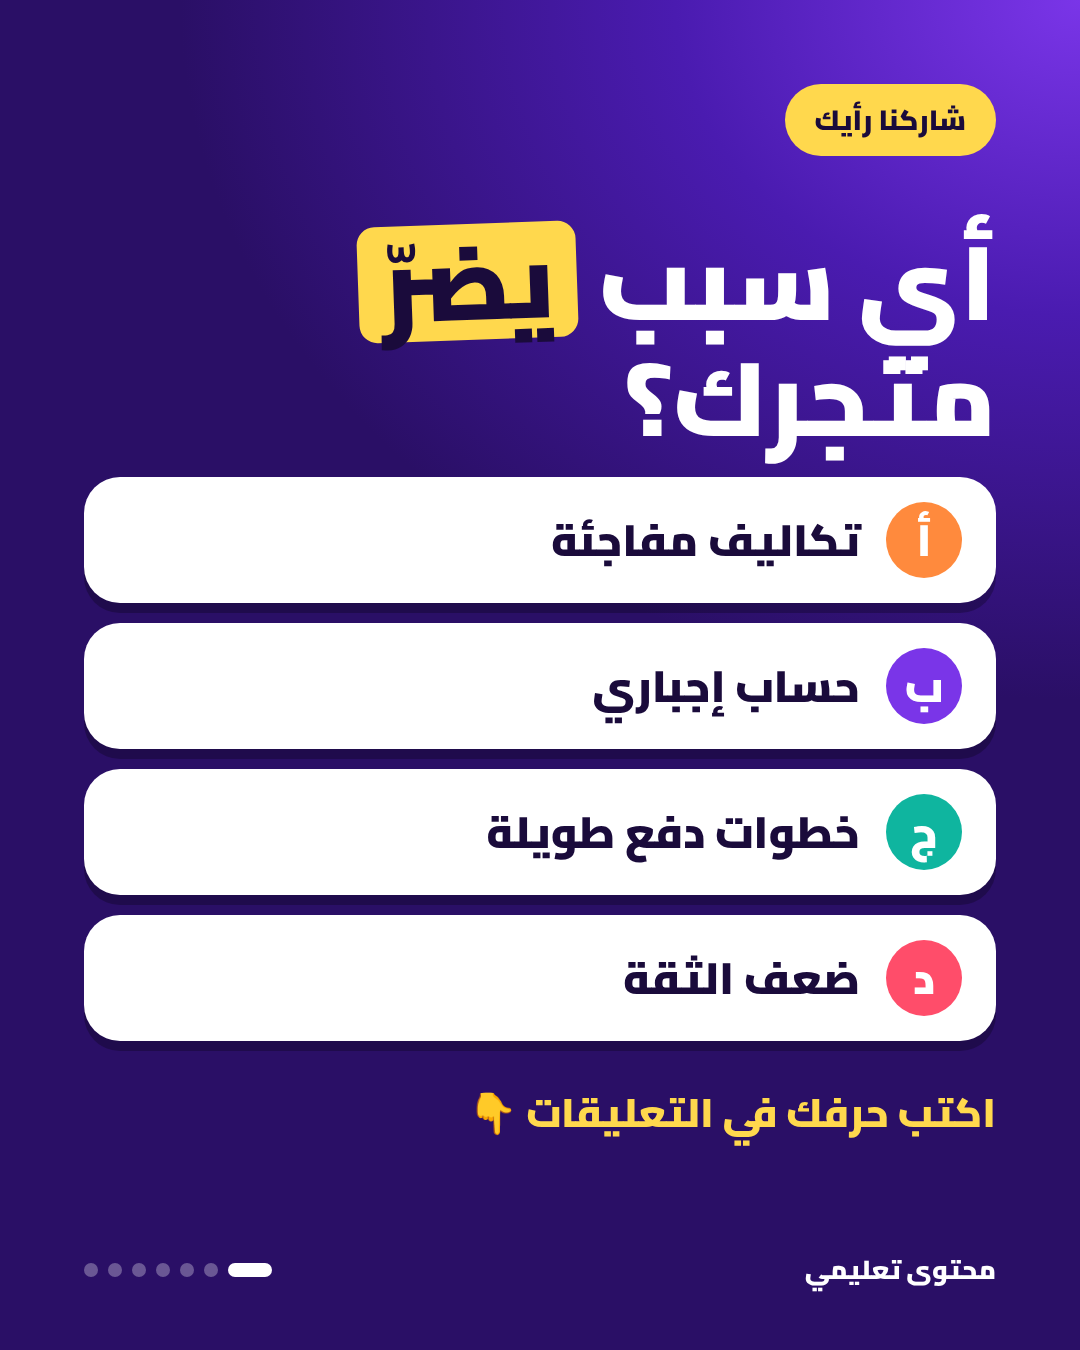
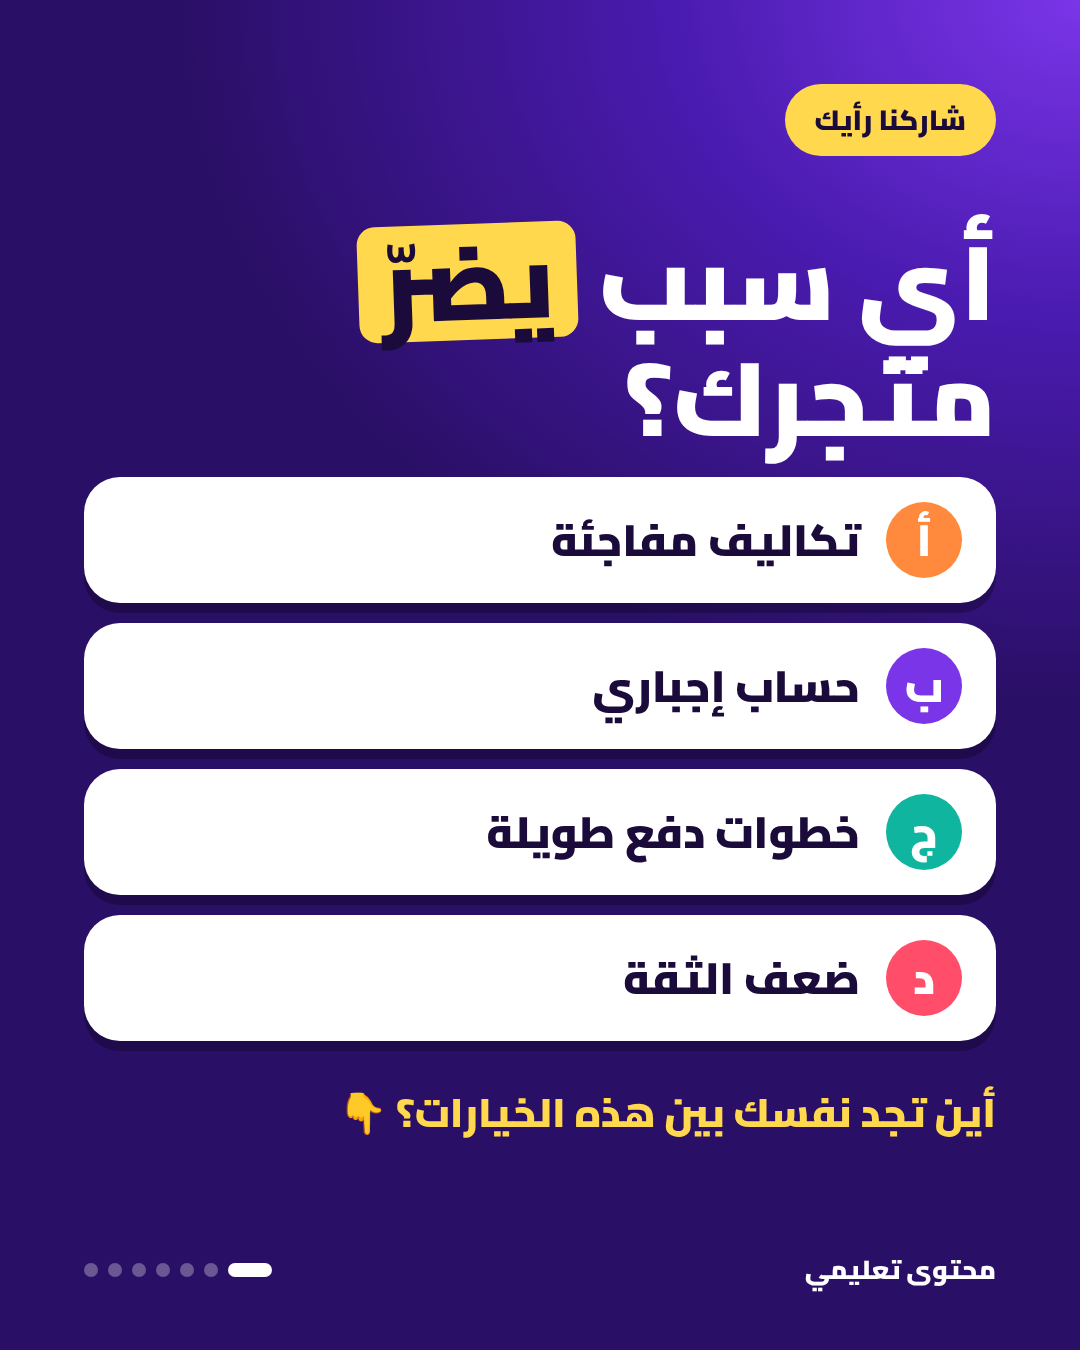
Marketing: new engagement line on final slide
Claude-Session: https://claude.ai/code/session_01YV6eaRqSPptrZU8roTwYZU

Changed region(s): [[0.3056, 0.8089, 0.9167, 0.8711]]

diff --git a/tools/story_marketing_whatsapp.py b/tools/story_marketing_whatsapp.py
@@ -27,7 +27,7 @@ def opt(l,t,c): return f'<div class="box" style="background:#fff;color:#1A0B3B;a
 S.append(f"""<section class="slide violet">{top("شاركنا رأيك")}
 <h1 style="font-size:100px;margin-top:60px">أين <span class="mark">تضيع</span><br>استفساراتك؟</h1>
 <div style="margin-top:16px">{opt("أ","بطء الرد","#FF8A3D")}{opt("ب","عدم فهم الحاجة","#7A35E8")}{opt("ج","عرض غير واضح","#0FB59F")}{opt("د","غياب المتابعة","#E0187A")}</div>
-<p style="font-size:40px;color:#FFD84D;margin-top:34px;font-weight:900;position:relative;z-index:3">اكتب حرفك في التعليقات 👇</p>{foot(7)}</section>""")
+<p style="font-size:40px;color:#FFD84D;margin-top:34px;font-weight:900;position:relative;z-index:3">أين تجد نفسك بين هذه الخيارات؟ 👇</p>{foot(7)}</section>""")
 html=f"<!doctype html><html lang='ar' dir='rtl'><head><meta charset='utf-8'><style>{css}</style></head><body>{''.join(S)}</body></html>"
 (HERE/"story_wa.html").write_text(html,encoding="utf-8")
 from playwright.sync_api import sync_playwright

diff --git a/tools/story_marketing_cart2.py b/tools/story_marketing_cart2.py
@@ -78,7 +78,7 @@ def opt(l,t,c): return f'<div class="box" style="background:#fff;color:#1A0B3B;a
 S.append(f"""<section class="slide violet">{top("شاركنا رأيك")}
 <h1 style="font-size:104px;margin-top:60px">أي سبب <span class="mark">يضرّ</span><br>متجرك؟</h1>
 <div style="margin-top:16px">{opt("أ","تكاليف مفاجئة","#FF8A3D")}{opt("ب","حساب إجباري","#7A35E8")}{opt("ج","خطوات دفع طويلة","#0FB59F")}{opt("د","ضعف الثقة","#FF4D6A")}</div>
-<p style="font-size:40px;color:#FFD84D;margin-top:34px;font-weight:900;position:relative;z-index:3">اكتب حرفك في التعليقات 👇</p>{foot(7)}</section>""")
+<p style="font-size:40px;color:#FFD84D;margin-top:34px;font-weight:900;position:relative;z-index:3">أين تجد نفسك بين هذه الخيارات؟ 👇</p>{foot(7)}</section>""")
 html=f"<!doctype html><html lang='ar' dir='rtl'><head><meta charset='utf-8'><style>{css}</style></head><body>{''.join(S)}</body></html>"
 (HERE/"story.html").write_text(html,encoding="utf-8")
 from playwright.sync_api import sync_playwright

diff --git a/tools/story_marketing_onesentence.py b/tools/story_marketing_onesentence.py
@@ -29,7 +29,7 @@ def opt(l,t,c): return f'<div class="box" style="background:#fff;color:#1A0B3B;a
 S.append(f"""<section class="slide violet">{top("شاركنا رأيك")}
 <h1 style="font-size:100px;margin-top:60px">أي عنصر <span class="mark">ينقص</span><br>جملتك؟</h1>
 <div style="margin-top:16px">{opt("أ","الفئة المحددة","#FF8A3D")}{opt("ب","النتيجة","#7A35E8")}{opt("ج","الطريقة","#0FB59F")}{opt("د","الوضوح والبساطة","#E0187A")}</div>
-<p style="font-size:40px;color:#FFD84D;margin-top:34px;font-weight:900;position:relative;z-index:3">اكتب حرفك في التعليقات 👇</p>{foot(7)}</section>""")
+<p style="font-size:40px;color:#FFD84D;margin-top:34px;font-weight:900;position:relative;z-index:3">أين تجد نفسك بين هذه الخيارات؟ 👇</p>{foot(7)}</section>""")
 html=f"<!doctype html><html lang='ar' dir='rtl'><head><meta charset='utf-8'><style>{css}</style></head><body>{''.join(S)}</body></html>"
 (HERE/"story_os.html").write_text(html,encoding="utf-8")
 from playwright.sync_api import sync_playwright

diff --git a/tools/story_marketing_booking.py b/tools/story_marketing_booking.py
@@ -87,7 +87,7 @@ def opt(l,t,c): return f'<div class="box" style="background:#fff;color:#1A0B3B;a
 S.append(f"""<section class="slide violet">{top("شاركنا رأيك")}
 <h1 style="font-size:100px;margin-top:60px">أي سبب <span class="mark">يمنع</span><br>حجوزاتك؟</h1>
 <div style="margin-top:16px">{opt("أ","غموض العرض","#FF8A3D")}{opt("ب","غياب الدليل","#7A35E8")}{opt("ج","السعر والقيمة","#0FB59F")}{opt("د","صعوبة الحجز","#FF4D6A")}</div>
-<p style="font-size:40px;color:#FFD84D;margin-top:34px;font-weight:900;position:relative;z-index:3">اكتب حرفك في التعليقات 👇</p>{foot(7)}</section>""")
+<p style="font-size:40px;color:#FFD84D;margin-top:34px;font-weight:900;position:relative;z-index:3">أين تجد نفسك بين هذه الخيارات؟ 👇</p>{foot(7)}</section>""")
 
 html=f"<!doctype html><html lang='ar' dir='rtl'><head><meta charset='utf-8'><style>{css}</style></head><body>{''.join(S)}</body></html>"
 (HERE/"story.html").write_text(html,encoding="utf-8")

diff --git a/tools/story_marketing_followers.py b/tools/story_marketing_followers.py
@@ -68,7 +68,7 @@ S.append(f"""<section class="slide">{top("خطة عملية")}
 S.append(f"""<section class="slide">{top("شاركنا رأيك")}
 <h1 style="font-size:84px;margin-top:60px;line-height:1.25">ما أكبر عائق يمنع<br>متابعيك من <span class="o">الشراء؟</span></h1>
 <div style="margin-top:14px">{why("أ","غياب الثقة","")}{why("ب","السعر","")}{why("ج","عدم وضوح العرض","")}</div>
-<p style="font-size:36px;color:{T};margin-top:26px;font-weight:900">اكتب حرفك في التعليقات 👇</p>{foot(7)}</section>""")
+<p style="font-size:36px;color:{T};margin-top:26px;font-weight:900">أين تجد نفسك بين هذه الخيارات؟ 👇</p>{foot(7)}</section>""")
 html=f"<!doctype html><html lang='ar' dir='rtl'><head><meta charset='utf-8'><style>{css}</style></head><body>{''.join(S)}</body></html>"
 (HERE/"story.html").write_text(html,encoding="utf-8")
 from playwright.sync_api import sync_playwright

diff --git a/marketing/README.md b/marketing/README.md
@@ -10,3 +10,4 @@
 - الشريحة الأولى فقط تتغير: برتقالي ثم تركواز بالتناوب (tools/cover_palette.py). بقية الشرائح كما هي.
 - كاروسيل رقم 1 (سلة الشراء): برتقالي · رقم 2 (الخدمات): تركواز · رقم 3: برتقالي... وهكذا.
 - بنفسجي وأصفر ووردي مستبعدة بقرار المستخدم.
+- جملة الشريحة الأخيرة المعتمدة: «أين تجد نفسك بين هذه الخيارات؟ 👇» (بدل «اكتب حرفك في التعليقات»)
